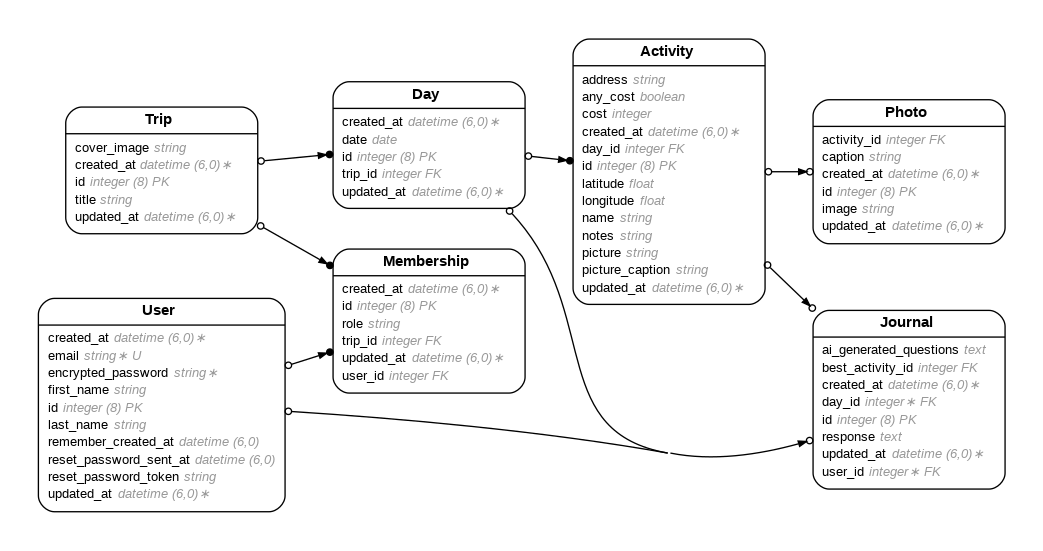
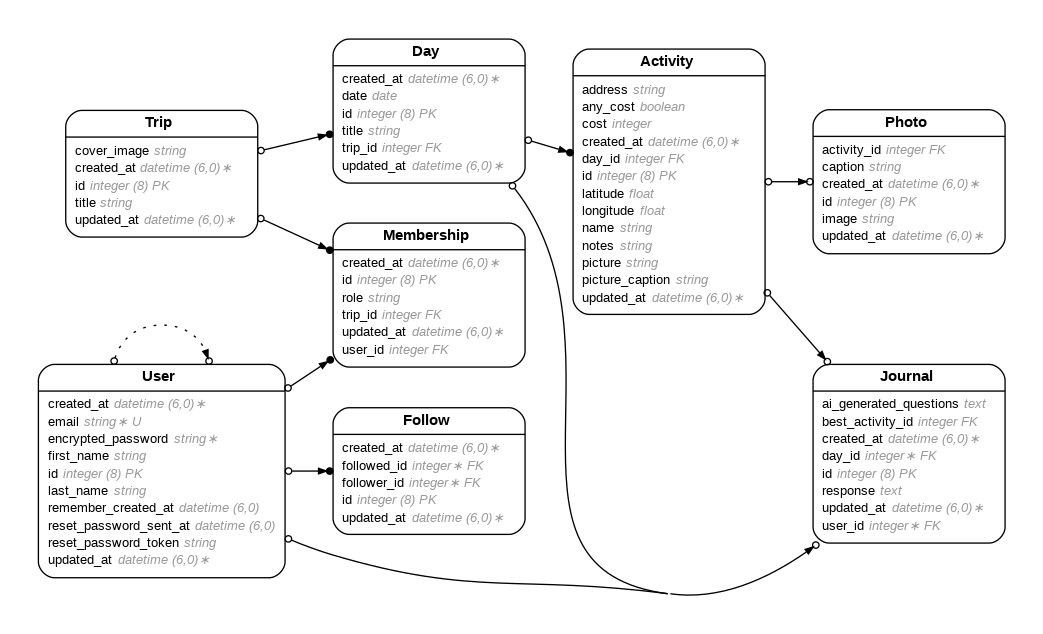
Added ability to edit day name and redirected page to the newly added day when a new day is added.

diff --git a/app/controllers/days_controller.rb b/app/controllers/days_controller.rb
@@ -20,13 +20,14 @@ class DaysController < ApplicationController
   def create
     the_day = Day.new
     the_day.date = params.fetch("query_date")
+    the_day.title = params.fetch("query_title", "")
     the_day.trip_id = params.fetch("query_trip_id")
 
     if the_day.valid?
       the_day.save
-      redirect_to("/days", { :notice => "Day created successfully." })
+      redirect_to("/days/#{the_day.id}", { :notice => "Day created successfully." })
     else
-      redirect_to("/days", { :alert => the_day.errors.full_messages.to_sentence })
+      redirect_to("/trips/#{params.fetch("query_trip_id")}", { :alert => the_day.errors.full_messages.to_sentence })
     end
   end
 
@@ -35,6 +36,7 @@ class DaysController < ApplicationController
     the_day = Day.where({ :id => the_id }).at(0)
 
     the_day.date = params.fetch("query_date")
+    the_day.title = params.fetch("query_title", "")
     the_day.trip_id = params.fetch("query_trip_id")
 
     if the_day.valid?

diff --git a/app/controllers/follows_controller.rb b/app/controllers/follows_controller.rb
@@ -13,9 +13,9 @@ class FollowsController < ApplicationController
     the_follow.followed_id = params.fetch("query_followed_id")
 
     if the_follow.save
-      redirect_back(fallback_location: "/people", { :notice => "Now following!" })
+      redirect_back(fallback_location: "/people", notice: "Now following!")
     else
-      redirect_back(fallback_location: "/people", { :alert => the_follow.errors.full_messages.to_sentence })
+      redirect_back(fallback_location: "/people", alert: the_follow.errors.full_messages.to_sentence)
     end
   end
 
@@ -25,7 +25,7 @@ class FollowsController < ApplicationController
 
     if the_follow
       the_follow.destroy
-      redirect_back(fallback_location: "/people", { :notice => "Unfollowed." })
+      redirect_back(fallback_location: "/people", notice: "Unfollowed.")
     else
       redirect_to("/people", { :alert => "Follow not found." })
     end

diff --git a/db/schema.rb b/db/schema.rb
@@ -10,7 +10,7 @@
 #
 # It's strongly recommended that you check this file into your version control system.
 
-ActiveRecord::Schema[8.0].define(version: 2026_02_26_210341) do
+ActiveRecord::Schema[8.0].define(version: 2026_02_26_212421) do
   # These are extensions that must be enabled in order to support this database
   enable_extension "pg_catalog.plpgsql"
 
@@ -34,6 +34,7 @@ ActiveRecord::Schema[8.0].define(version: 2026_02_26_210341) do
     t.integer "trip_id"
     t.datetime "created_at", null: false
     t.datetime "updated_at", null: false
+    t.string "title"
   end
 
   create_table "follows", force: :cascade do |t|

diff --git a/app/models/follow.rb b/app/models/follow.rb
@@ -1,3 +1,17 @@
+# == Schema Information
+#
+# Table name: follows
+#
+#  id          :bigint           not null, primary key
+#  created_at  :datetime         not null
+#  updated_at  :datetime         not null
+#  followed_id :integer          not null
+#  follower_id :integer          not null
+#
+# Indexes
+#
+#  index_follows_on_follower_id_and_followed_id  (follower_id,followed_id) UNIQUE
+#
 class Follow < ApplicationRecord
   belongs_to :follower, class_name: "User", foreign_key: "follower_id"
   belongs_to :followed, class_name: "User", foreign_key: "followed_id"

diff --git a/app/models/day.rb b/app/models/day.rb
@@ -4,6 +4,7 @@
 #
 #  id         :bigint           not null, primary key
 #  date       :date
+#  title      :string
 #  created_at :datetime         not null
 #  updated_at :datetime         not null
 #  trip_id    :integer

diff --git a/db/migrate/20260226212421_add_title_to_days.rb b/db/migrate/20260226212421_add_title_to_days.rb
@@ -1,0 +1,5 @@
+class AddTitleToDays < ActiveRecord::Migration[8.0]
+  def change
+    add_column :days, :title, :string
+  end
+end
